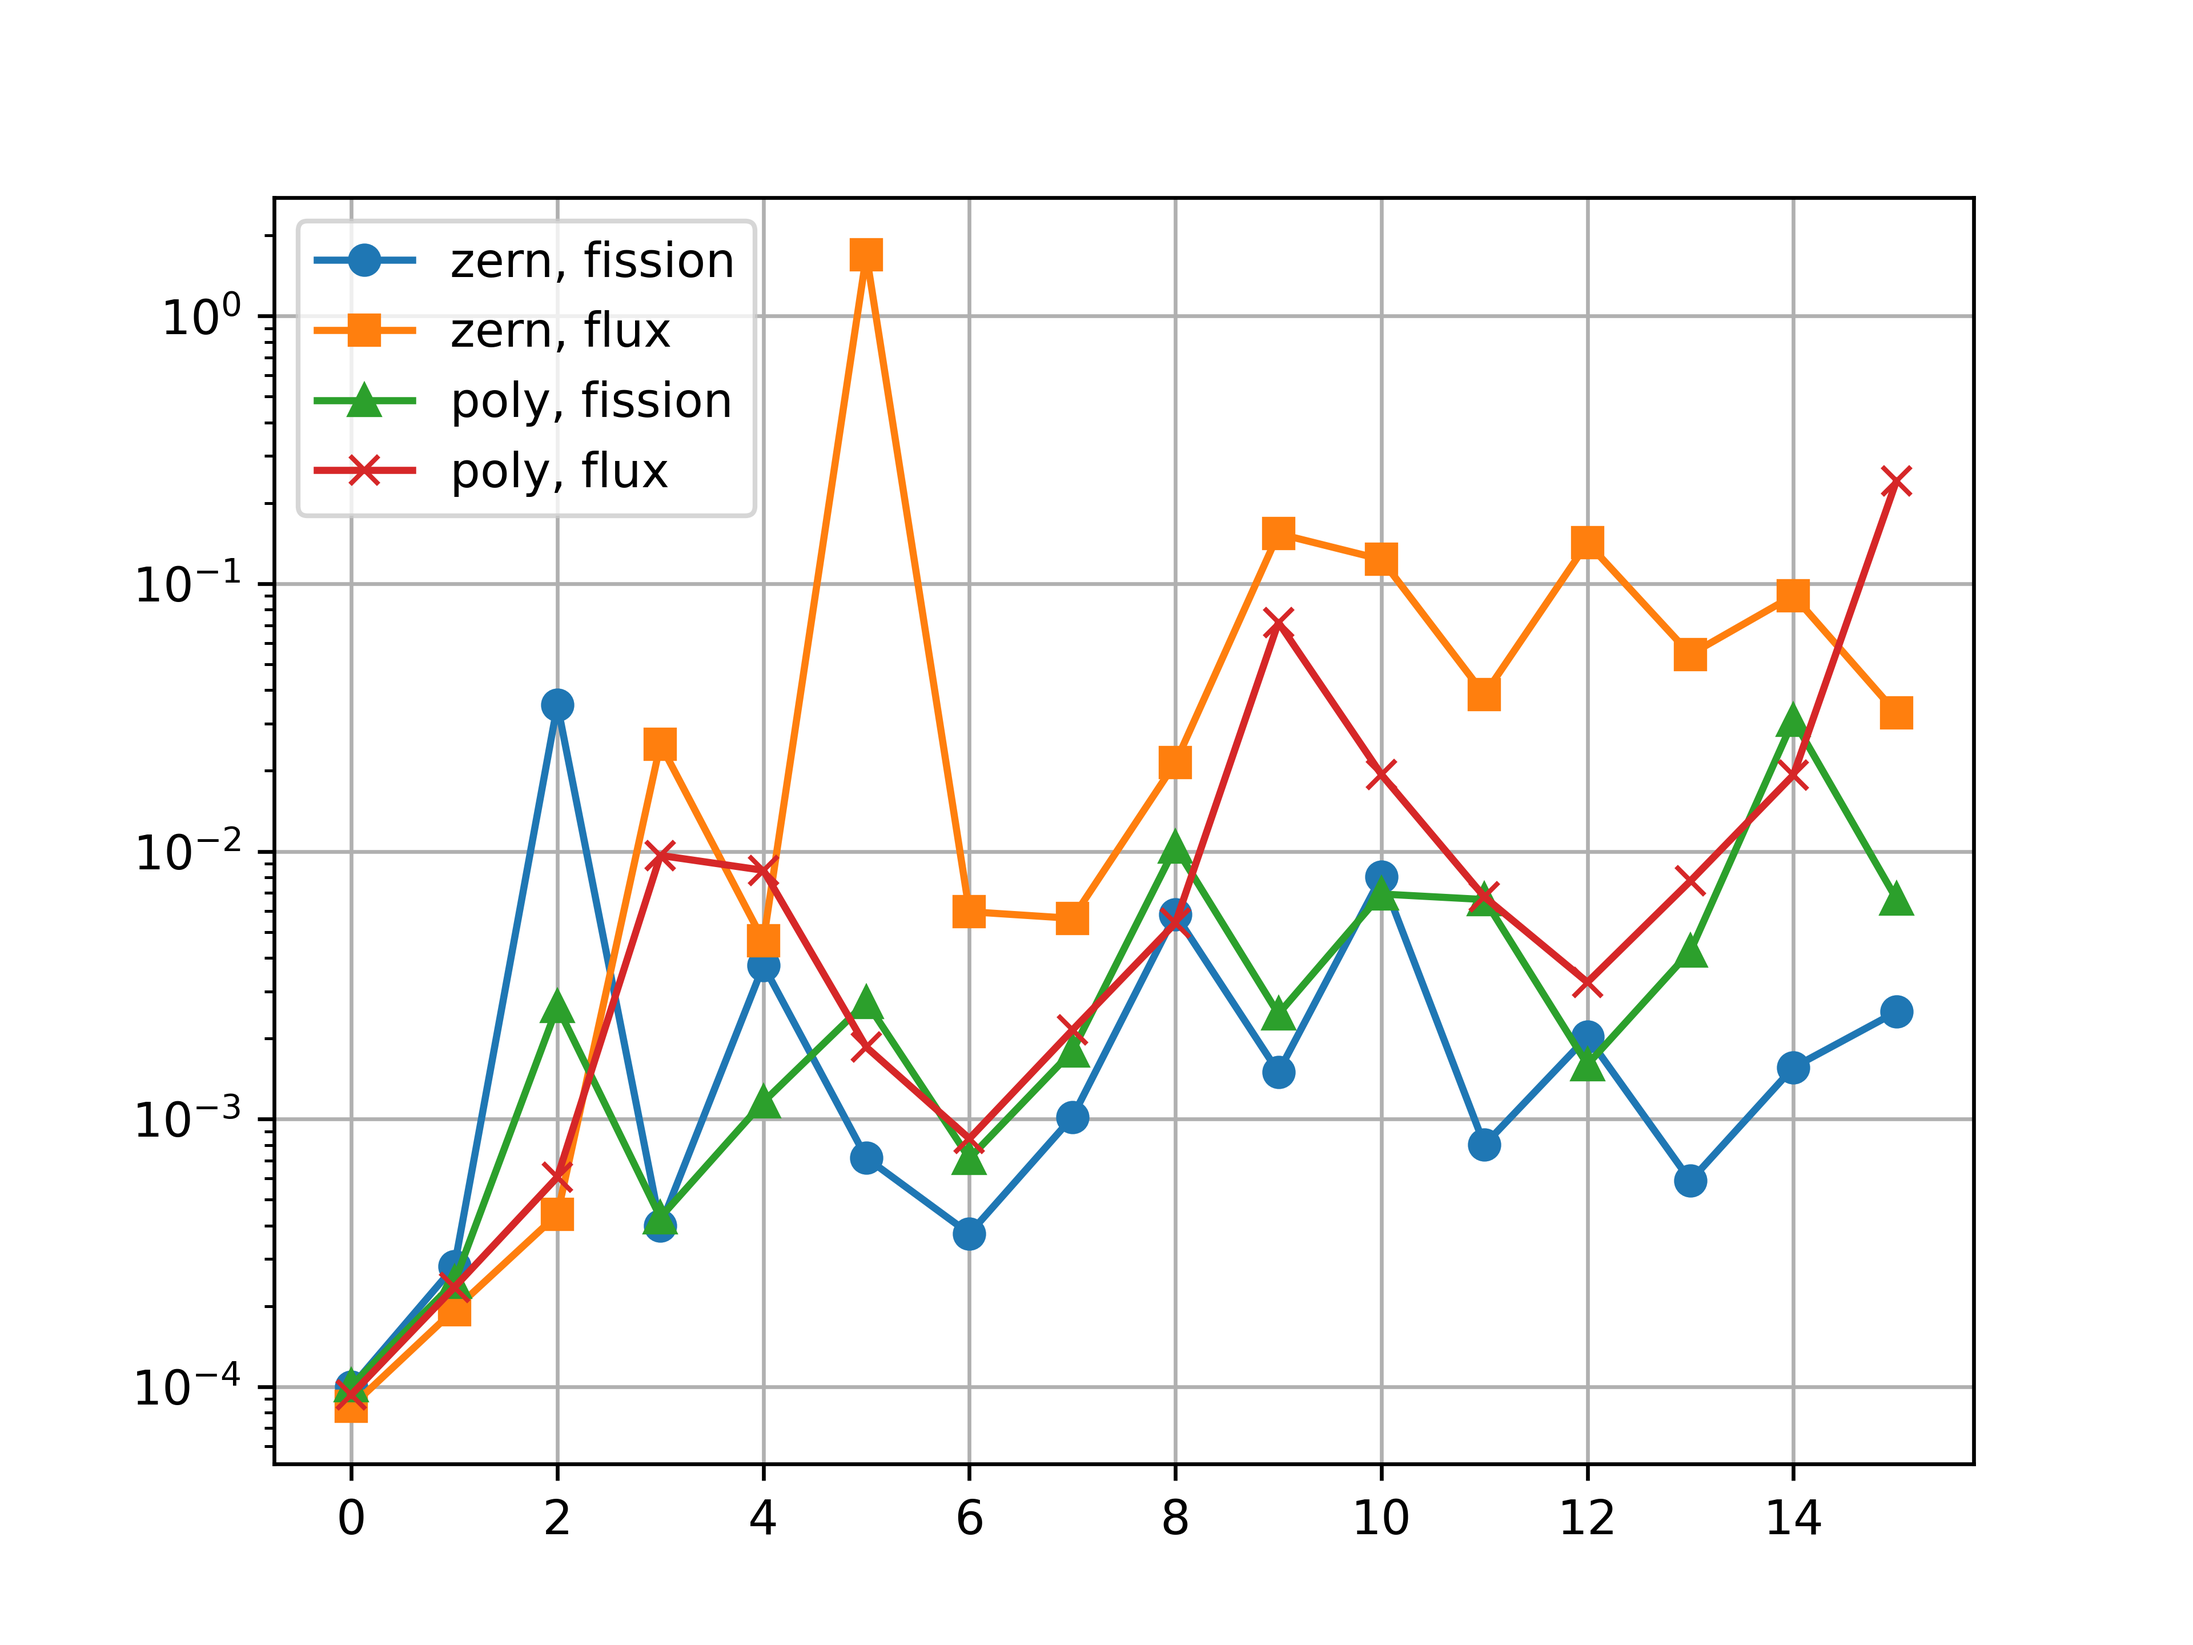
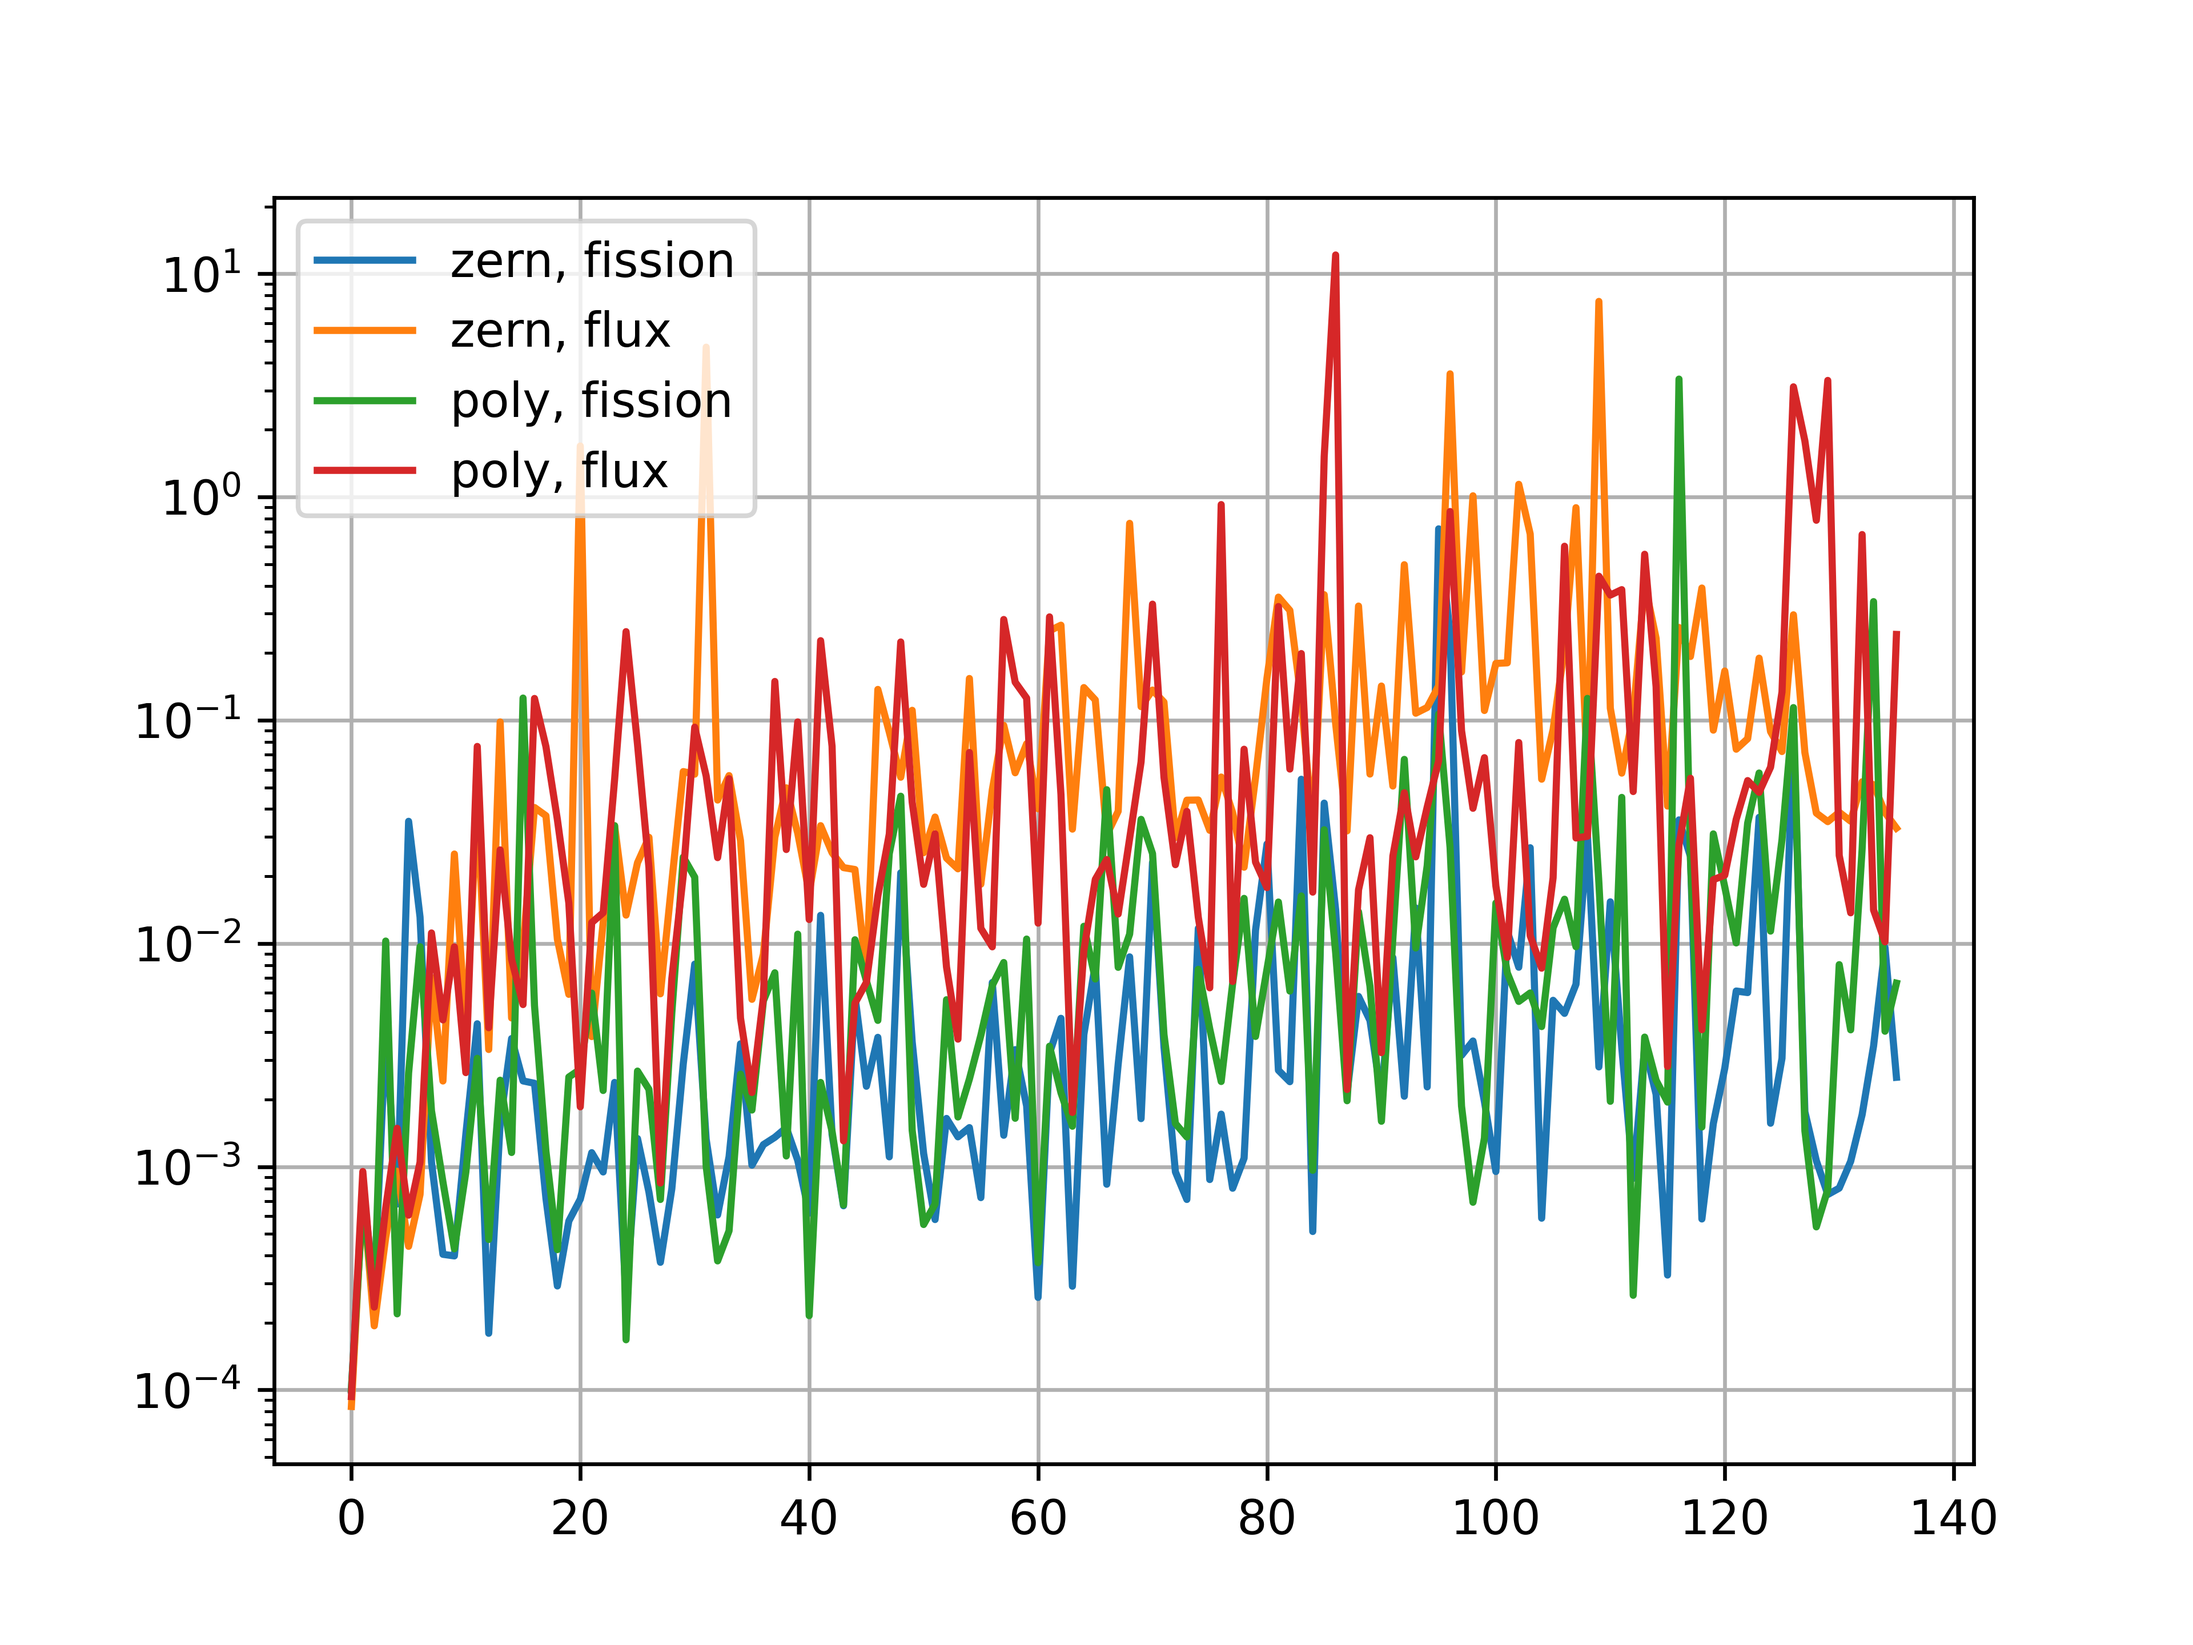
my final message... goodbye

diff --git a/post-processing/plot_max_err.py b/post-processing/plot_max_err.py
@@ -8,6 +8,8 @@ from max_error import (zern_flux_xy, zern_fission_xy, poly_flux_xy,
     poly_fission_xy)
 from calc_max_err import calc_weights
 from parse_csv import flux_vals, fission_vals
+from functions import (zern_flux_err, zern_fission_err, poly_flux_err,
+    poly_fission_err)
 
 # dimensions
 radius = pitch / 2 / np.cos(np.radians(30))
@@ -79,18 +81,28 @@ def max_error(func, dx):
     if tally_type == "poly" and qoi == "flux":
         ls = "dashdot"
 
-    plt.semilogy(maxes, label=f"{glip}, {glub}", ls=ls, color='b')
+    ax1.semilogy(maxes, label=f"{glub}, {glip}")#, ls=ls, color='r')
 
+fig, ax1 = plt.subplots()
+#ax2 = plt.twinx(ax1)
 
 def plot_all_maxes(dx):
 
-    max_error(zern_flux_xy, dx)
     max_error(zern_fission_xy, dx)
-    max_error(poly_flux_xy, dx)
     max_error(poly_fission_xy, dx)
-
-    plt.legend(loc='upper right')
-    plt.ylim(1e-5, 3e-1)
+    max_error(zern_flux_xy, dx)
+    max_error(poly_flux_xy, dx)
+    """
+    ax2.semilogy(zern_flux_err, label = "RE: Zern Fl", marker='o', color='b')
+    ax2.semilogy(zern_fission_err, label = "RE: Zern KF", marker='s', color='b')
+    ax2.semilogy(poly_flux_err, label = "RE: Poly, FL", marker='^', color='b')
+    ax2.semilogy(poly_fission_err, label = "RE: Poly, KF", marker='x', color='b')
+    """
+    ax1.legend(loc='upper right')
+    #ax2.legend(loc='upper left')
+    plt.ylim(5e-5, 1e-1)
+    plt.ylabel("Maximum Error")
+    plt.xlabel("FET Radial Order")
 
     plt.grid('both')
     plt.savefig("./plots/max-err.png", dpi=600)

diff --git a/post-processing/functions.py b/post-processing/functions.py
@@ -70,7 +70,7 @@ def get_rel_err(df):
             glip += m_coeff
         rel_err.append(m_coeff)
 
-    return abs(np.array(rel_err))
+    return abs(np.array(err)) #abs(np.array(rel_err))
 
 
 zern_fission_err = get_rel_err(zern_fission_df)
@@ -78,15 +78,17 @@ zern_flux_err = get_rel_err(zern_flux_df)
 poly_fission_err = get_rel_err(poly_fission_df)
 poly_flux_err = get_rel_err(poly_flux_df)
 
-# plt.semilogy(zern_fission_err, label='zern, fission', marker='o')
-# plt.semilogy(zern_flux_err, label='zern, flux', marker='s')
-# plt.semilogy(poly_fission_err, label='poly, fission', marker='^')
-# plt.semilogy(poly_flux_err, label='poly, flux', marker='x')
+"""
+plt.semilogy(zern_fission_err, label='zern, fission')#, marker='o')
+plt.semilogy(zern_flux_err, label='zern, flux')#, marker='s')
+plt.semilogy(poly_fission_err, label='poly, fission')#, marker='^')
+plt.semilogy(poly_flux_err, label='poly, flux')#, marker='x')
 
-# plt.legend()
-# plt.grid('both')
-# plt.savefig("./err-next-term.png", dpi=600)
-# plt.show()
+plt.legend()
+plt.grid('both')
+plt.savefig("./err-next-term.png", dpi=600)
+plt.show()
+"""
 
 # functions for zern tally
 def zern_fission_xy(x, y):
